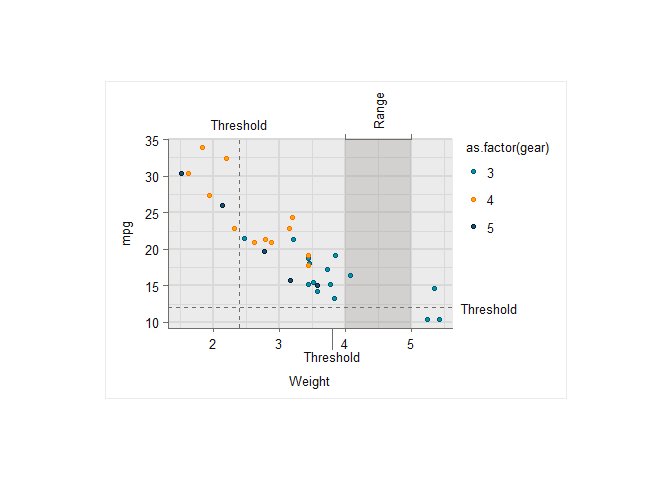
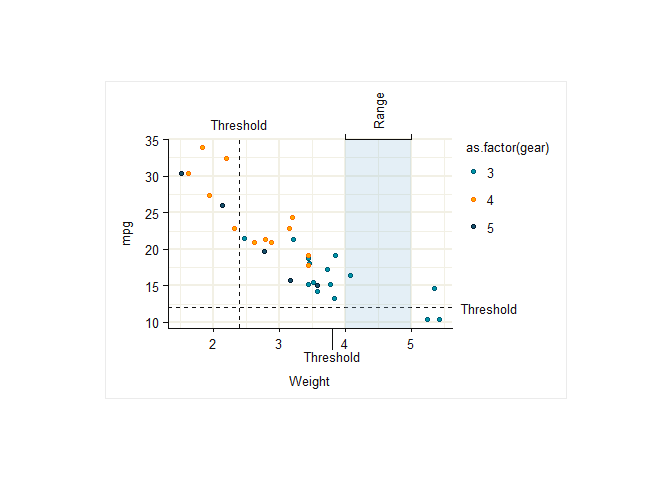
Update

Changed region(s): [[0.25, 0.2812, 0.6875, 0.6875]]

diff --git a/README.md b/README.md
@@ -37,15 +37,17 @@ library(ggplot2)
 library(dplyr)
 
 set_theme(
-  ggrefine::theme_grey(
-    panel_heights = rep(unit(50, "mm"), 100),
-    panel_widths = rep(unit(75, "mm"), 100),
-  )
+  ggrefine::theme_light() +
+    theme(
+      panel.heights = rep(unit(50, "mm"), 100),
+      panel.widths = rep(unit(75, "mm"), 100),
+    )
 )
 
 mtcars |>
   ggplot(aes(x = wt, y = mpg, colour = as.factor(gear), fill = as.factor(gear))) +
-  scale_colour_discrete(palette = blends::multiply(get_theme()$palette.colour.discrete)) +
+  scale_fill_discrete(palette = jumble::jumble) +
+  scale_colour_discrete(palette = blends::multiply(jumble::jumble)) +
   #clip = "off" is required for axis_text, axis_ticks and axis_bracket
   coord_cartesian(clip = "off") +
   #reference lines and background
@@ -129,7 +131,10 @@ mtcars |>
     vjust = 1.33,
     show.legend = FALSE,
   ) +
-  scale_y_continuous(expand = expansion(c(0, 0.05))) 
+  scale_y_continuous(expand = expansion(c(0, 0.05))) +
+  theme(panel.grid.major.x = element_blank()) +
+  theme(axis.line.y = element_blank()) +
+  theme(axis.ticks.y = element_blank())
 ```
 
 <img src="man/figures/README-unnamed-chunk-3-1.png" alt="" width="100%" />

diff --git a/NEWS.md b/NEWS.md
@@ -1,4 +1,4 @@
-# ggscribe (development)
+# ggscribe 0.2.0
 
 * Improved ticks and bracket linewidth.
 * Made bracket corners join neatly.
